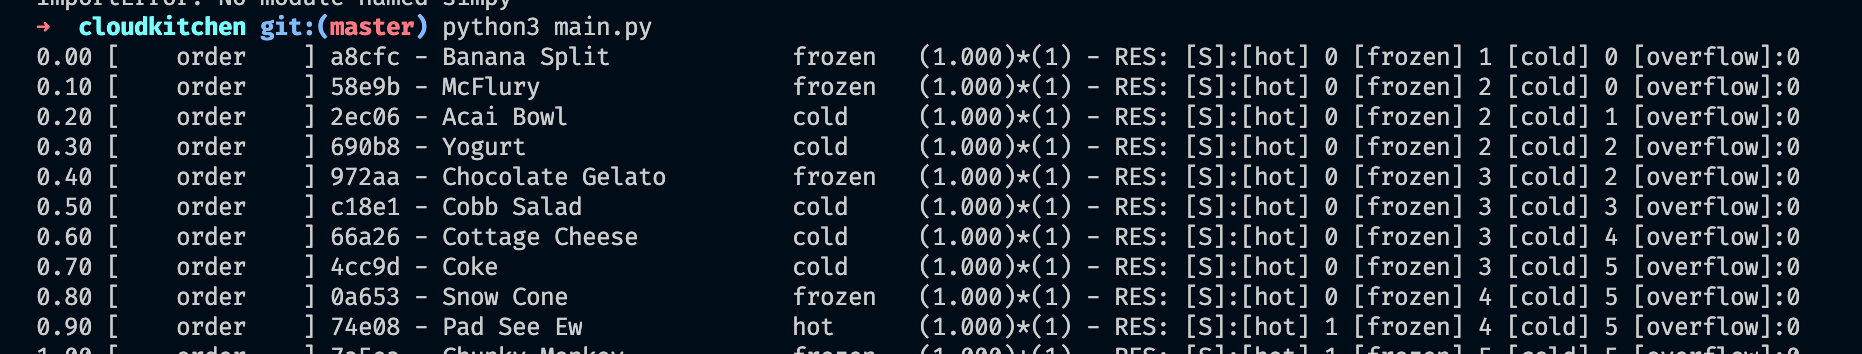
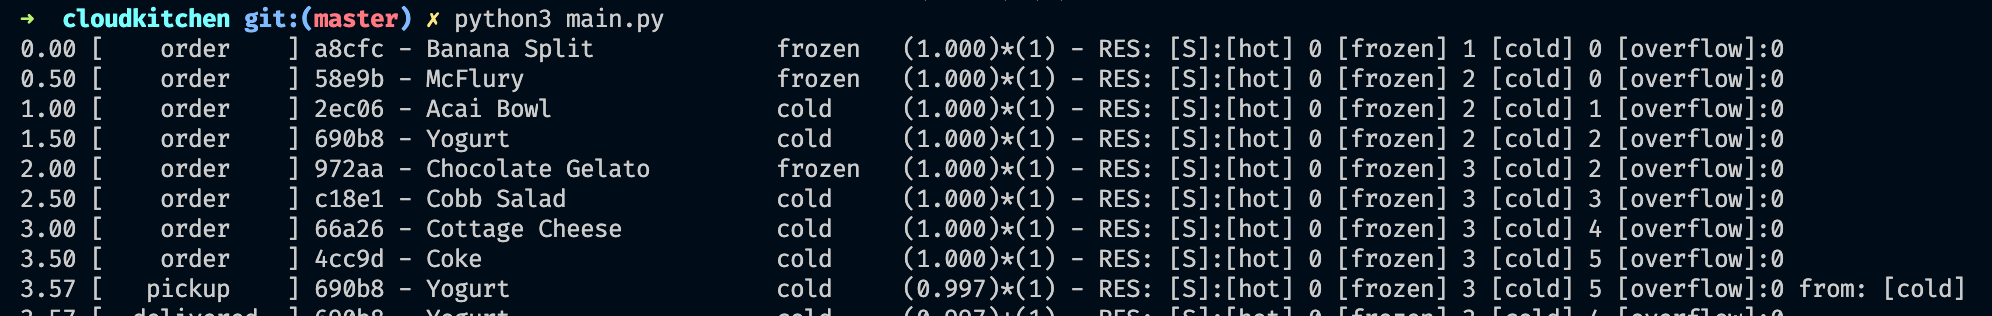
Change factor of simulation

Changed region(s): [[0.0, 0.0, 0.9968, 1.0]]

diff --git a/main.py b/main.py
@@ -7,12 +7,12 @@ import getopt
 def main():
     orders = get_initial_orders()
     parameters = CKParameters()
-    parameters.INTERVAL_ORDERS = 0.1
+    parameters.INTERVAL_ORDERS = 0.5
     parameters.MAX_COURIER_TIME = 2
-    parameters.MIN_COURIER_TIME = 16
-    parameters.OVERFLOW_DECAY_MODIFIER = 20
-    parameters.NORMAL_DECAY_MODIFIER = 10
-    core = CKitchen(orders, parameters=parameters)
+    parameters.MIN_COURIER_TIME = 6
+    parameters.OVERFLOW_DECAY_MODIFIER = 2
+    parameters.NORMAL_DECAY_MODIFIER = 1
+    core = CKitchen(orders, parameters=parameters, factor=1)
     core.simulate()
     core.run(until=30)
 

diff --git a/src/ckitchen.py b/src/ckitchen.py
@@ -16,8 +16,8 @@ class CKParameters(object):
 
 class CKitchen(simpy.rt.RealtimeEnvironment):
 
-    def __init__(self, orders=[], parameters=CKParameters, coordinator=None):
-        super().__init__(factor=0.1)
+    def __init__(self, orders=[], parameters=CKParameters, coordinator=None, factor=1):
+        super().__init__(factor=factor)
         self.orders = list([Order(order, self) for order in orders])
         self.parameters = parameters
         if(coordinator is None):
